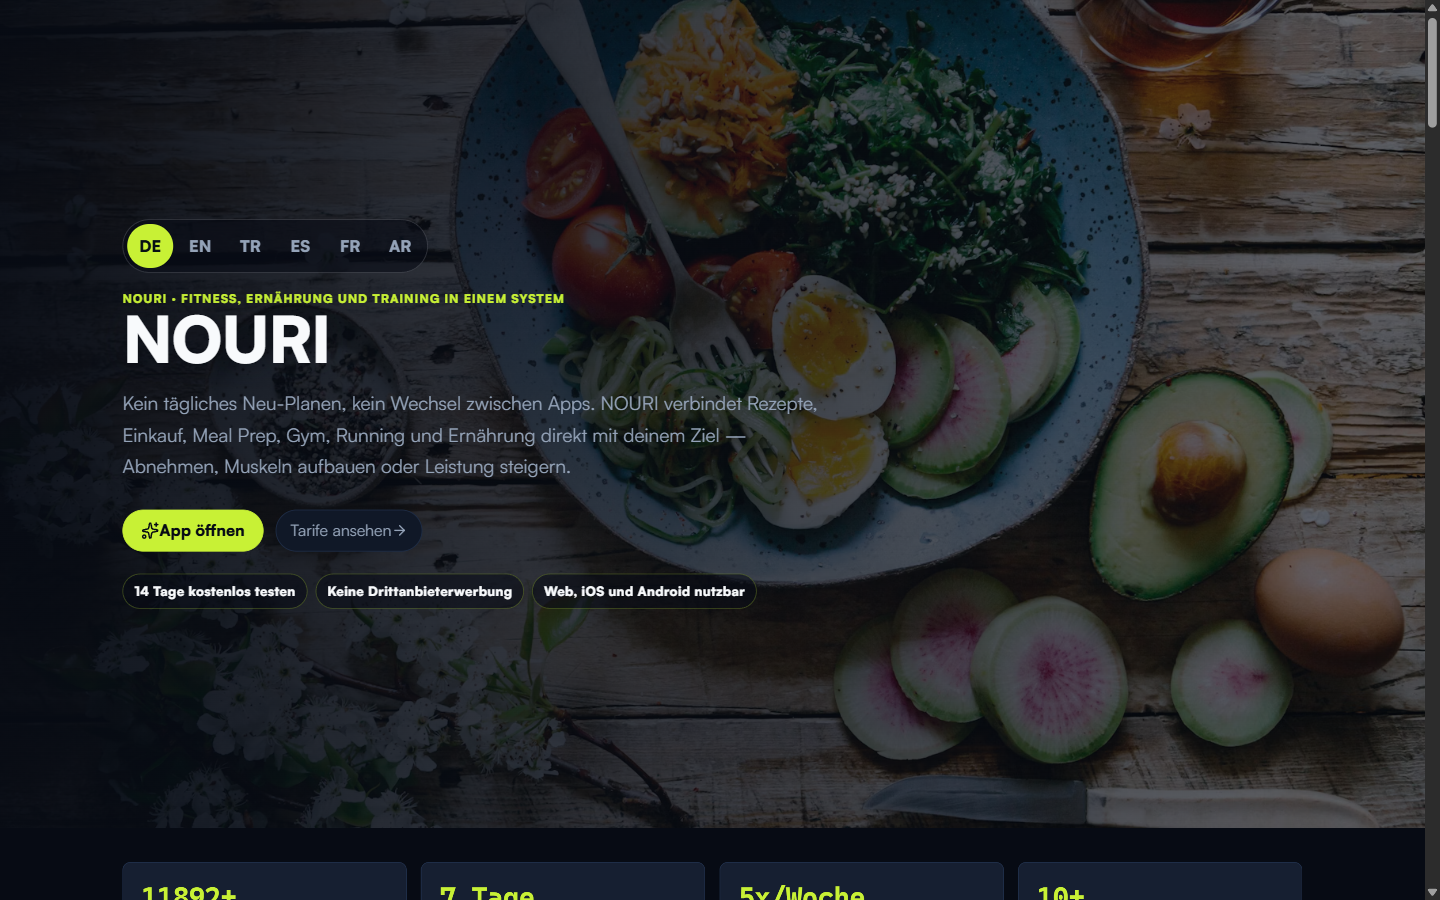
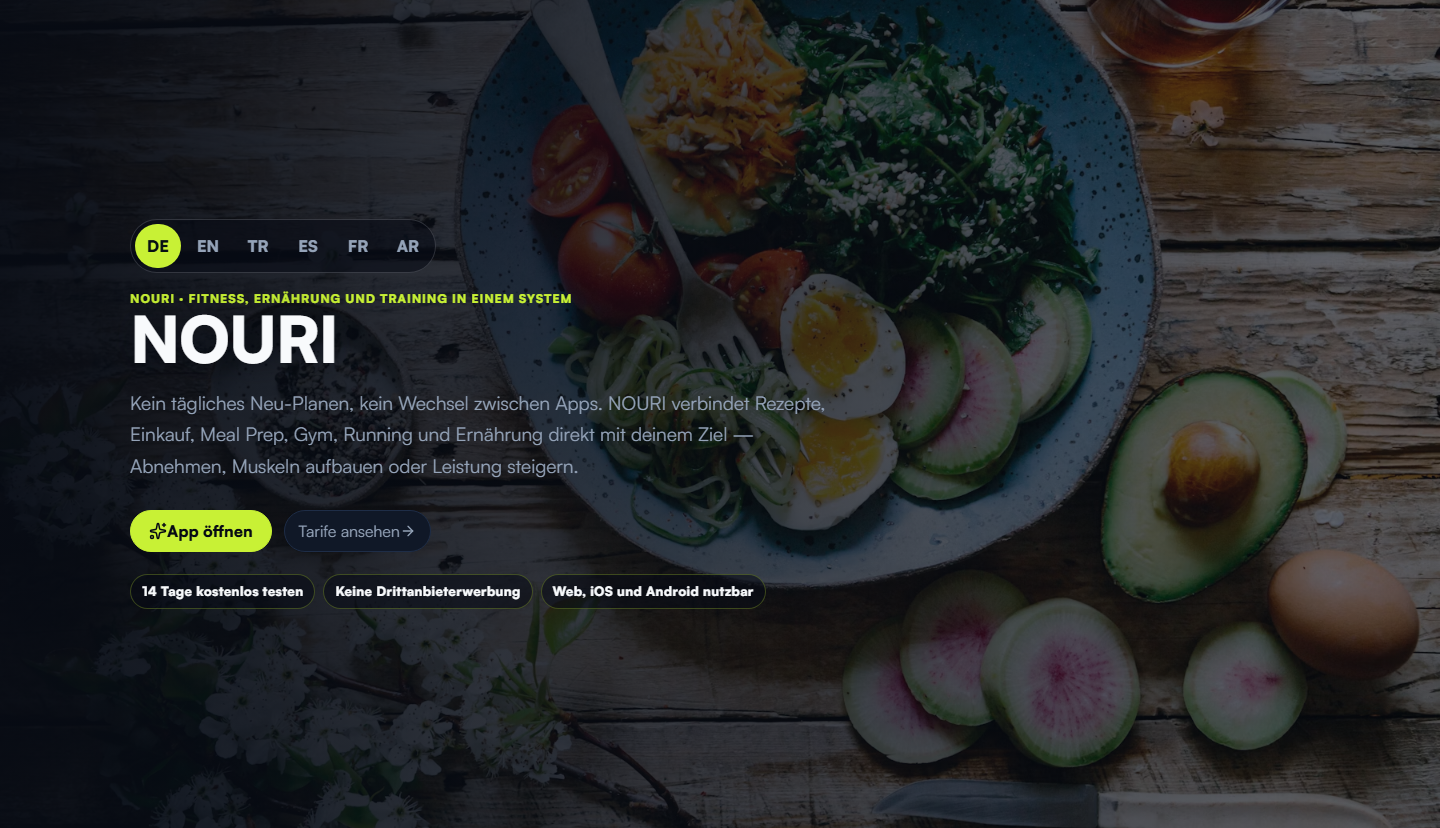
Was gezählt und gemessen wird, altert jetzt mit
Ein Prüfbericht mit den Augen eines CTO über die öffentliche
GitHub-Präsenz hat mehrere Stellen gefunden, an denen die Seite etwas
behauptet, das im Repo nicht steht — oder das morgen nicht mehr stimmt.

Die Überschrift der Über-mich-Sektion sagte „Vier Jahre gelernt. Vier
Monate ausgeliefert." als feste Zeichenkette, zwei Zeilen über einem
Absatz, der dieselbe Spanne aus dem ersten Commit rechnet. Ab dem
26.08.2026 hätte die Überschrift „Vier Monate" behauptet, während der
Absatz darunter „fünf Monaten" sagt — genau die Falle, die der Kommentar
über `ERSTER_COMMIT` als abgeschafft beschreibt. Beide Zahlen kommen
jetzt aus derselben Rechnung, in beiden Sprachfassungen. Heute ergibt das
denselben Satz wie vorher.

Die beiden Desktop-Aufnahmen der Fallstudien trugen eine echte
Bildlaufleiste am rechten Rand — innerhalb eines gezeichneten
Browserrahmens — und endeten mitten im Text: bei NOURI quer durch die
Kennzahlenreihe, bei MenuCloud durch die Knopfreihe. Ein Repo mit einem
eigenen Wächter gegen abgeschnittene Unterlängen lieferte abgeschnittene
Schrift als Bild aus. Neu aufgenommen ohne Bildlaufleiste, ohne
schwebende Chat-Knöpfe, mit datensparsamer Wahl im Zustimmungsbanner, und
jeweils an einer Sektionskante beendet: 1440 x 1466 und 1440 x 828.

`check:headers` misst die Auslieferung, nicht den Zweig, und lief
trotzdem bei jedem Pull Request mit. Ein Pull Request konnte dadurch grün
werden, obwohl er die Kopfzeilen zerschießt, und rot, obwohl er nichts
[…]

diff --git a/src/content/site.ts b/src/content/site.ts
@@ -36,6 +36,44 @@ function alsWort(n: number) {
 
 /** "vier Monaten", "fünf Monaten", … — nie ein eingefrorener Wert. */
 export const bauzeit = `${alsWort(monateSeitBeginn())} Monat${monateSeitBeginn() === 1 ? "" : "en"}`;
+
+/**
+ * Dieselbe Spanne ohne vorangestelltes „in", groß geschrieben.
+ *
+ * Die Überschrift der Über-mich-Sektion sagte „Vier Monate ausgeliefert" und
+ * stand als Zeichenkette da, zwei Zeilen über einem Absatz, der dieselbe
+ * Spanne rechnet. Ab dem 26. des übernächsten Monats hätte die Überschrift
+ * „Vier Monate" behauptet, während der Absatz darunter „fünf Monaten" sagt —
+ * genau die Falle, die der Kommentar über `ERSTER_COMMIT` als abgeschafft
+ * beschreibt.
+ */
+function grossErstes(text: string) {
+  return text.charAt(0).toUpperCase() + text.slice(1);
+}
+
+export const bauzeitNominativ = grossErstes(
+  `${alsWort(monateSeitBeginn()).replace(/^einem$/, "ein")} Monat${
+    monateSeitBeginn() === 1 ? "" : "e"
+  }`,
+);
+
+/**
+ * Wie lange der Lernweg dauert, ebenfalls gerechnet.
+ *
+ * Die Kurszertifikate sind von Juli und August 2022; seitdem läuft der
+ * autodidaktische Weg weiter. „Vier Jahre" war am Tag des Schreibens richtig
+ * und wäre 2027 eine zu niedrige Angabe.
+ */
+const LERNBEGINN = "2022-07-01";
+
+export const lernzeit = grossErstes(
+  alsWort(
+    Math.max(
+      1,
+      new Date(verified.date).getFullYear() - new Date(LERNBEGINN).getFullYear(),
+    ),
+  ) + " Jahre",
+);
 /**
  * Die eine Quelle für jeden Text und jede Zahl dieser Seite.
  *
@@ -105,7 +143,7 @@ export const about = {
   portrait: "/portrait-dark.jpg" as string,
   /* Fuer den One-Pager, der auf Papier geht. */
   portraitPrint: "/portrait.jpg" as string,
-  title: "Vier Jahre gelernt. Vier Monate ausgeliefert.",
+  title: `${lernzeit} gelernt. ${bauzeitNominativ} ausgeliefert.`,
   paragraphs: [
     `Softwareentwicklung habe ich mir ab 2022 selbst beigebracht: erst über strukturierte Kurse von Meta und Udemy, dann über eigene Projekte. Kein Informatikstudium, kein Bootcamp. 2026 ist daraus Ernst geworden: vier Produktionssysteme in ${bauzeit}, zwei davon mit Apps in beiden Stores, eines mit gesetzlich vorgeschriebener Fiskalisierung, entstanden neben einem Vollzeitjob.`,
     "Was ich dabei gelernt habe und was heute meine Arbeitsweise bestimmt: Ein grüner Testlauf beweist nichts. Ich hatte ein Android-Widget, bei dem alle Tests durchliefen und das auf dem echten Gerät leer blieb. Und ich habe monatelang geglaubt, meine Update-Auslieferung funktioniere, weil das Werkzeug nach jedem Veröffentlichen „Published“ meldete. Angekommen ist bei keinem Nutzer je etwas.",
@@ -622,8 +660,12 @@ export const caseStudies: CaseStudy[] = [
       {
         src: "/shots/menucloud-desktop.png",
         alt: "Startseite von menucloud-berlin.de mit dem Versprechen null Provision, DSGVO und KassenSichV sowie einer Vorschau des Self-Service-Admins.",
+        /* Der Ausschnitt endet an der Sektionskante, nicht an einer runden
+           Zahl: Die vorherige Aufnahme war 1440 x 900 und schnitt quer durch
+           die Knopfreihe. Dazu trug sie eine echte Bildlaufleiste am Rand,
+           innerhalb eines gezeichneten Browserrahmens. */
         width: 1440,
-        height: 900,
+        height: 1466,
         label: "menucloud-berlin.de",
       },
       {
@@ -720,9 +762,11 @@ export const caseStudies: CaseStudy[] = [
     shots: [
       {
         src: "/shots/nouri-desktop.png",
-        alt: "Startseite der NOURI-Plattform mit Rezeptkatalog, Wochenplanung und Trainingsbereich.",
+        alt: "Startseite der NOURI-Plattform: Sprachwahl, Titelzeile und die Knöpfe zum Öffnen der App.",
+        /* Endet an der Kante des Kopfbereichs. Die vorherige Aufnahme war
+           1440 x 900 und schnitt mitten durch die Kennzahlenreihe. */
         width: 1440,
-        height: 900,
+        height: 828,
         label: "nouri-fitness.vercel.app",
       },
     ],

diff --git a/src/content/en.ts b/src/content/en.ts
@@ -73,6 +73,28 @@ function asWord(n: number) {
 /** "four months", "five months", … — never a frozen value. */
 const buildTime = `${asWord(monthsSinceStart())} month${monthsSinceStart() === 1 ? "" : "s"}`;
 
+/* Dieselbe Spanne für die Überschrift, groß geschrieben. Sie stand als
+   Zeichenkette da („Four months shipping"), zwei Zeilen über einem Absatz, der
+   dieselbe Spanne rechnet — ab dem 26. des übernächsten Monats hätten beide
+   verschiedene Zahlen gesagt. */
+function capitalise(text: string) {
+  return text.charAt(0).toUpperCase() + text.slice(1);
+}
+
+const buildTimeTitle = capitalise(buildTime);
+
+/* Der Lernweg beginnt mit den Kurszertifikaten von Juli 2022. „Four years"
+   war beim Schreiben richtig und wäre 2027 zu niedrig. */
+const LEARNING_START = "2022-07-01";
+const learningYears = capitalise(
+  asWord(
+    Math.max(
+      1,
+      new Date(verified.date).getFullYear() - new Date(LEARNING_START).getFullYear(),
+    ),
+  ) + " years",
+);
+
 export const en: Content = {
   lang: "en",
   site: {
@@ -396,7 +418,7 @@ export const en: Content = {
           src: "/shots/menucloud-desktop.png",
           alt: "Home page of menucloud-berlin.de promising zero commission, GDPR and cash-register compliance, with a preview of the self-service admin.",
           width: 1440,
-          height: 900,
+          height: 1466,
           label: "menucloud-berlin.de",
         },
         {
@@ -489,9 +511,9 @@ export const en: Content = {
       shots: [
         {
           src: "/shots/nouri-desktop.png",
-          alt: "Home page of the NOURI platform showing the recipe catalogue, weekly planning and training section.",
+          alt: "Home page of the NOURI platform: language switch, headline and the buttons that open the app.",
           width: 1440,
-          height: 900,
+          height: 828,
           label: "nouri-fitness.vercel.app",
         },
       ],
@@ -502,7 +524,7 @@ export const en: Content = {
     eyebrow: "Who I am",
     portrait: "/portrait-dark.jpg",
     portraitPrint: "/portrait.jpg",
-    title: "Four years learning. Four months shipping.",
+    title: `${learningYears} learning. ${buildTimeTitle} shipping.`,
     paragraphs: [
       `I taught myself software engineering from 2022: first through structured courses from Meta and Udemy, then through my own projects. No computer science degree, no bootcamp. In 2026 it turned serious: four production systems in ${buildTime}, two of them shipping in both app stores, one carrying statutory fiscal signing, all of it built alongside a full-time job.`,
       "What I learned doing it now governs how I work: a green test run proves nothing. I had an Android widget where every test passed and which rendered empty on a real device. And I spent months believing my update delivery worked, because the tool reported “Published” after every release. Not a single user ever received anything.",

diff --git a/src/lib/og-card.tsx b/src/lib/og-card.tsx
@@ -16,7 +16,7 @@ import { Marke } from "@/lib/mark";
  * steht, gibt es sie zwangsläufig nur einmal.
  *
  * Zur Bauzeit erzeugt, also ohne Laufzeitkosten und ohne Schriftabruf von
- * aussen. Der OG-Renderer beherrscht nur einen Teil von CSS; die Karte bildet
+ * außen. Der OG-Renderer beherrscht nur einen Teil von CSS; die Karte bildet
  * das Aussehen der Seite deshalb nach, statt ihre Komponenten zu benutzen.
  */
 
@@ -34,14 +34,14 @@ export type OgKarte = {
 const STACK = ["TypeScript", "React Native", "Next.js", "Postgres", "AI Engineering"];
 
 /**
- * Das Portraet als Datenadresse.
+ * Das Porträt als Datenadresse.
  *
- * Der OG-Renderer laeuft ohne Ursprung und kann `/portrait.jpg` nicht
- * aufloesen; eine absolute Adresse waere ein Abruf nach aussen zur Bauzeit.
+ * Der OG-Renderer läuft ohne Ursprung und kann `/portrait.jpg` nicht
+ * auflösen; eine absolute Adresse wäre ein Abruf nach außen zur Bauzeit.
  * Die Datei wird deshalb eingelesen und eingebettet — 320 Pixel, 12 kB, mehr
  * braucht ein Kreis von 150 Pixeln nicht.
  *
- * Warum ueberhaupt: Eine Vorschaukarte mit Gesicht wird auf LinkedIn anders
+ * Warum überhaupt: Eine Vorschaukarte mit Gesicht wird auf LinkedIn anders
  * gelesen als eine mit Buchstaben. Der Anlass, sie zu teilen, ist eine
  * Bewerbung, und dort steht am anderen Ende ein Mensch.
  */
@@ -111,7 +111,7 @@ export function renderOgCard({ name, role, location, tagline }: OgKarte) {
         <div style={{ display: "flex", alignItems: "center", gap: 48 }}>
           {/* Kein `next/image` und kein `alt`: Diese Baumstruktur wird nicht
               als HTML ausgeliefert, sondern von Satori zu einem PNG gerendert.
-              Es gibt kein Vorleseprogramm, das ein `alt` lesen koennte, und
+              Es gibt kein Vorleseprogramm, das ein `alt` lesen könnte, und
               keinen Bildoptimierer, der hier liefe. */}
           {/* eslint-disable-next-line @next/next/no-img-element, jsx-a11y/alt-text */}
           <img

diff --git a/src/components/ui/SectionHeading.tsx b/src/components/ui/SectionHeading.tsx
@@ -6,7 +6,7 @@ import { cn } from "@/lib/utils";
  * Consistent section opener: mono eyebrow, masked headline, optional lede.
  * Every section uses this so vertical rhythm stays identical throughout.
  *
- * `as` waehlt die Überschriftenebene. Auf der Startseite sind alle Sektionen
+ * `as` wählt die Überschriftenebene. Auf der Startseite sind alle Sektionen
  * gleichrangig unter der Hero-Überschrift, also h2. Auf einer eigenen Seite
  * ist dieselbe Überschrift die Hauptüberschrift: Die Artikelübersicht hatte
  * dadurch gar keine h1, gemessen über alle sechs Breiten in beiden Engines.
@@ -28,7 +28,7 @@ export function SectionHeading({
   className?: string;
   children?: ReactNode;
   as?: "h1" | "h2";
-  /** Ueber der Falz: Bewegung als CSS statt als JS-Animation. */
+  /** Über der Falz: Bewegung als CSS statt als JS-Animation. */
   css?: boolean;
 }) {
   return (

diff --git a/src/content/types.ts b/src/content/types.ts
@@ -124,10 +124,10 @@ export type Content = {
     eyebrow: string;
     portrait: string;
     /**
-     * Dieselbe Aufnahme auf hellem Grund, fuer Papier.
+     * Dieselbe Aufnahme auf hellem Grund, für Papier.
      *
-     * Am Bildschirm steht die Seite auf fast Schwarz, und ein Portraet mit
-     * heller Wand ist darin die einzige helle Flaeche weit und breit — es
+     * Am Bildschirm steht die Seite auf fast Schwarz, und ein Porträt mit
+     * heller Wand ist darin die einzige helle Fläche weit und breit — es
      * sieht aufgeklebt aus. Gedruckt ist es genau umgekehrt.
      */
     portraitPrint: string;

diff --git a/README.md b/README.md
@@ -90,9 +90,11 @@ npx tsc --noEmit   # Typecheck
 npx eslint .       # Lint
 ```
 
-Nach dem Bau laufen drei Prüfungen, die den Bau nicht ersetzt. Sie messen an
-der gebauten Seite und nicht am Quelltext, und derselbe Workflow führt sie bei
-jedem Push aus:
+Nach dem Bau laufen sechs Prüfungen, die den Bau nicht ersetzen. Fünf davon
+messen an der gebauten Seite und nicht am Quelltext; `check:headers` misst an
+der Auslieferung, weil `vercel.json` vom Bau gar nicht gelesen wird — und läuft
+deshalb auf Pull Requests nicht mit. Derselbe Workflow führt sie bei jedem Push
+aus:
 
 ```bash
 npm run check:a11y      # jede gebaute Seite gegen WCAG 2.2 AA, zwei Breiten
@@ -129,13 +131,16 @@ src/
 │  │  ├─ (legal)/            Impressum + Datenschutz (geteiltes Layout)
 │  │  ├─ artikel/            Übersicht, Einzelseiten, Atom-Feed, OG-Bilder
 │  │  ├─ onepager/           A4-Route, wird zum PDF
-│  │  ├─ not-found.tsx       404 innerhalb des Layouts
 │  │  └─ page.tsx            Startseite (Server Component)
 │  ├─ (en)/en/               englische Fassung, zweites Wurzel-Layout
-│  │  └─ onepager/           dasselbe Blatt auf Englisch, eigenes PDF
+│  │  ├─ articles/           dieselben Artikel auf Englisch, eigener Feed
+│  │  ├─ onepager/           dasselbe Blatt auf Englisch, eigenes PDF
+│  │  └─ opengraph-image/    als Route, damit die Adresse ohne Hash feststeht
+│  ├─ .well-known/           security.txt nach RFC 9116, Datum aus dem Bau
 │  ├─ global-not-found.tsx   404 ohne Layout — bei zwei Wurzel-Layouts nötig
 │  ├─ humans.txt/route.ts    liest denselben Prüfstempel wie die Seite
-│  ├─ icon.tsx               Favicon als Monogramm
+│  ├─ llms.txt/route.ts      dieselbe Seite als Text für Sprachmodelle
+│  ├─ icon.tsx · apple-icon.tsx   Symbole aus derselben Form wie die Marke
 │  ├─ opengraph-image.tsx    Social-Card, zur Bauzeit erzeugt
 │  ├─ robots.ts · sitemap.ts
 │  └─ globals.css
@@ -147,7 +152,10 @@ src/
 │  ├─ article/               ArticleIndex · ArticlePage · Prose
 │  ├─ providers/             MotionProvider · SmoothScroll
 │  ├─ ArchitectureDiagram.tsx
+│  ├─ RootDocument.tsx       das <html>-Gerüst, das sich beide Layouts teilen
+│  ├─ SitePage.tsx           die Sektionsfolge, beide Sprachen rendern dieselbe
 │  ├─ OnePager.tsx           das A4-Blatt, beide Sprachen rendern dasselbe
+│  ├─ Nav.tsx · Footer.tsx · NotFoundPage.tsx
 │  ├─ CommandPalette.tsx
 │  ├─ ConsoleGreeting.tsx    Nachricht für die Entwicklerkonsole
 │  └─ SiteShell.tsx          Client-Insel: hält den Palette-State
@@ -155,21 +163,28 @@ src/
 │  ├─ site.ts                deutsche Quelle: jeder Text, jede Zahl
 │  ├─ de.ts · en.ts          Adapter je Sprache, gegen types.ts deklariert
 │  ├─ types.ts               gemeinsame Form — fehlt ein Feld, bricht der Bau
+│  ├─ ContentProvider.tsx    reicht die Sprachfassung an die Client-Sektionen
 │  ├─ articles/              fünf Fachartikel je Sprache, getippte Blöcke
 │  └─ verified.json          Prüfstempel, nur vom Workflow geschrieben
-└─ lib/                      cn() · Metadaten · Motion-Tokens · Hooks
+└─ lib/                      cn() · Metadaten · Motion-Tokens · Hooks · Marke · OG-Karte
 
 scripts/
 ├─ check-public-dir.mjs           läuft als prebuild: nichts Privates in public/
-├─ check-figures.mjs              zählt die Zahlen der Seite gegen die Repos nach
+├─ check-a11y.mjs                 axe-core gegen jede gebaute Seite, zwei Breiten
+├─ check-privacy.mjs              keine Seite baut eine Verbindung nach außen auf
+├─ check-headers.mjs              die ausgelieferte Seite trägt die Schutz-Kopfzeilen
 ├─ check-print.mjs                prüft jede gebaute Seite in der Druckansicht
+├─ check-headings.mjs             keine Überschrift schneidet ihre Unterlängen ab
 ├─ check-reading-time.mjs         Lesezeiten aus dem Wortbestand statt von Hand
+├─ check-figures.mjs              zählt die Zahlen der Seite gegen die Repos nach
 ├─ fetch-figures-from-github.mjs  zählt Commits über die GitHub-API
 ├─ build-onepager-pdf.mjs         druckt beide Kurzprofile auf je eine A4-Seite
-└─ build-linkedin-images.mjs      Titelbild und Im-Fokus-Kachel aus denselben Zahlen wie die Seite
+├─ build-linkedin-images.mjs      Titelbild und Im-Fokus-Kachel aus denselben Zahlen wie die Seite
+├─ build-favicon.mjs              erzeugt favicon.ico aus derselben Form wie die Marke
+└─ lib/local-server.mjs           startet den gebauten Stand auf einem freien Port
 
 .github/workflows/
-├─ check.yml                      Typen, Linter und Bau bei jedem Push
+├─ check.yml                      Typen, Linter, Bau und die sechs Prüfungen
 └─ refresh-figures.yml            zählt täglich nach und liefert aus
 ```
 
@@ -185,7 +200,7 @@ ausgeliefert wird und nicht erst nach der Hydration erscheint.
 - Vollständiger Header-Satz in [`vercel.json`](vercel.json): HSTS mit Preload,
   CSP, `X-Frame-Options: DENY`, `X-Content-Type-Options`, `Referrer-Policy`,
   `Permissions-Policy`, `X-DNS-Prefetch-Control`
-- [`/.well-known/security.txt`](public/.well-known/security.txt) für Meldungen
+- [`/.well-known/security.txt`](https://domenicmoran.de/.well-known/security.txt) für Meldungen
 
 ### Zur CSP: eine bewusste Abwägung
 
